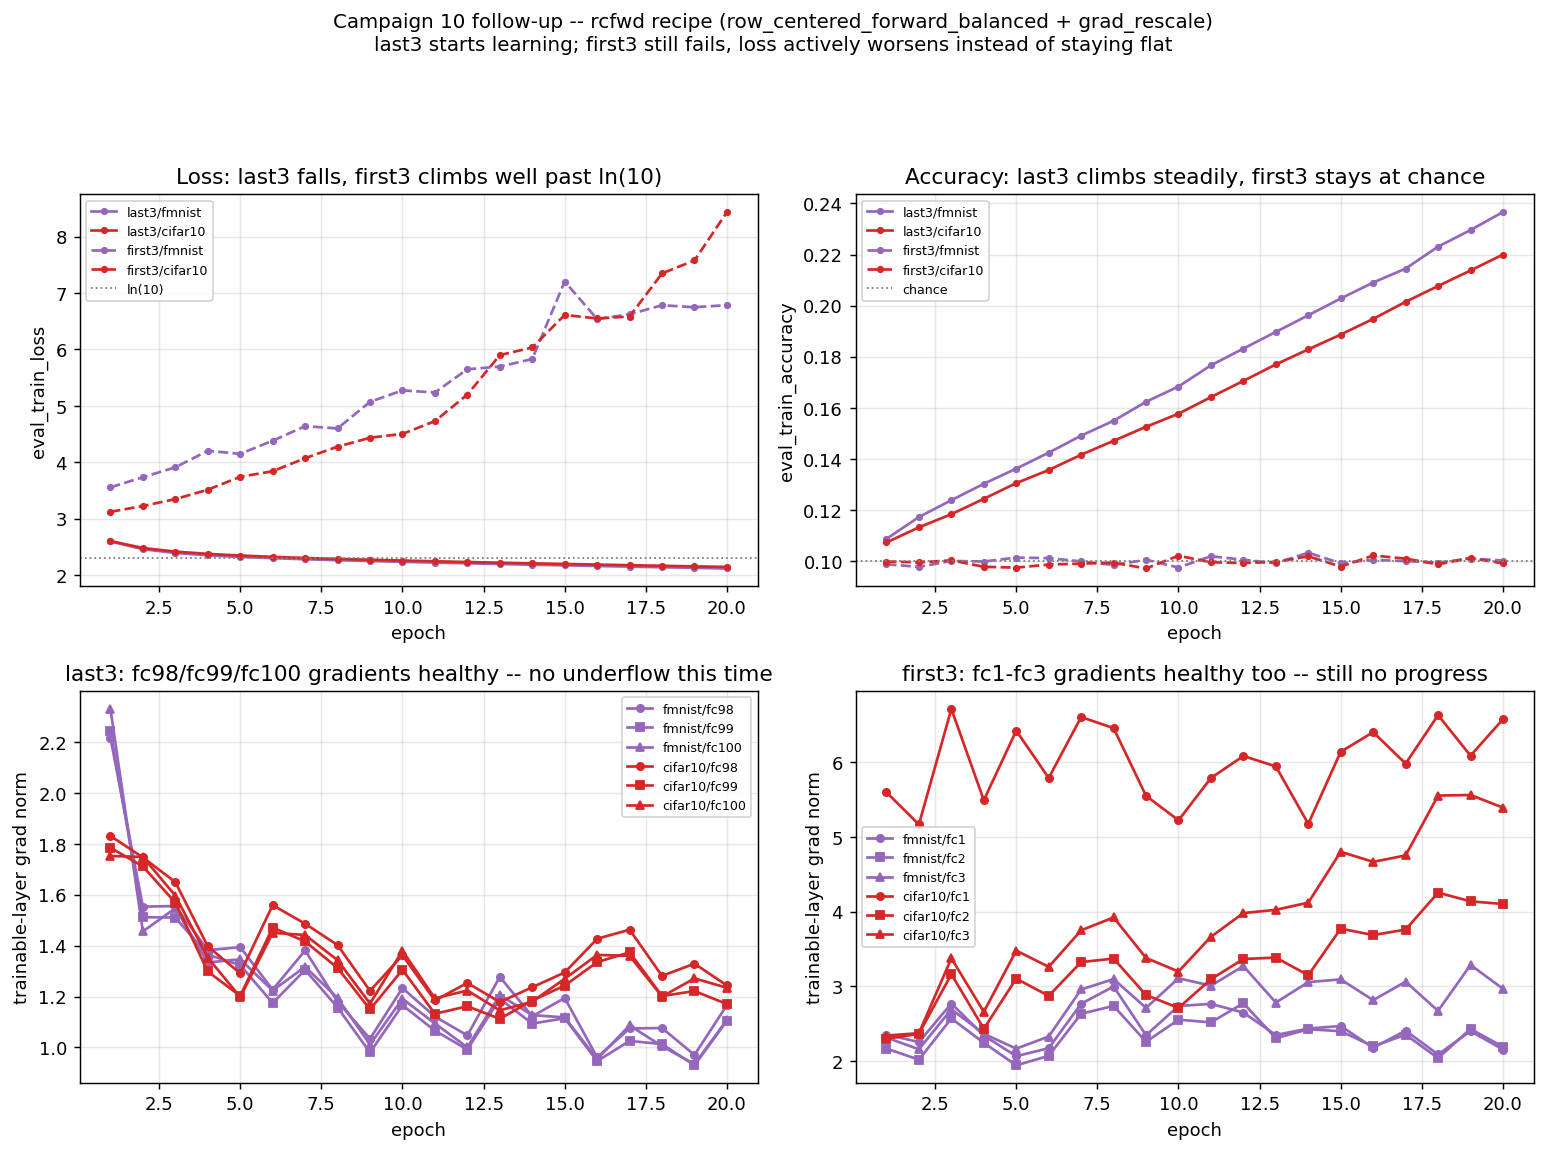
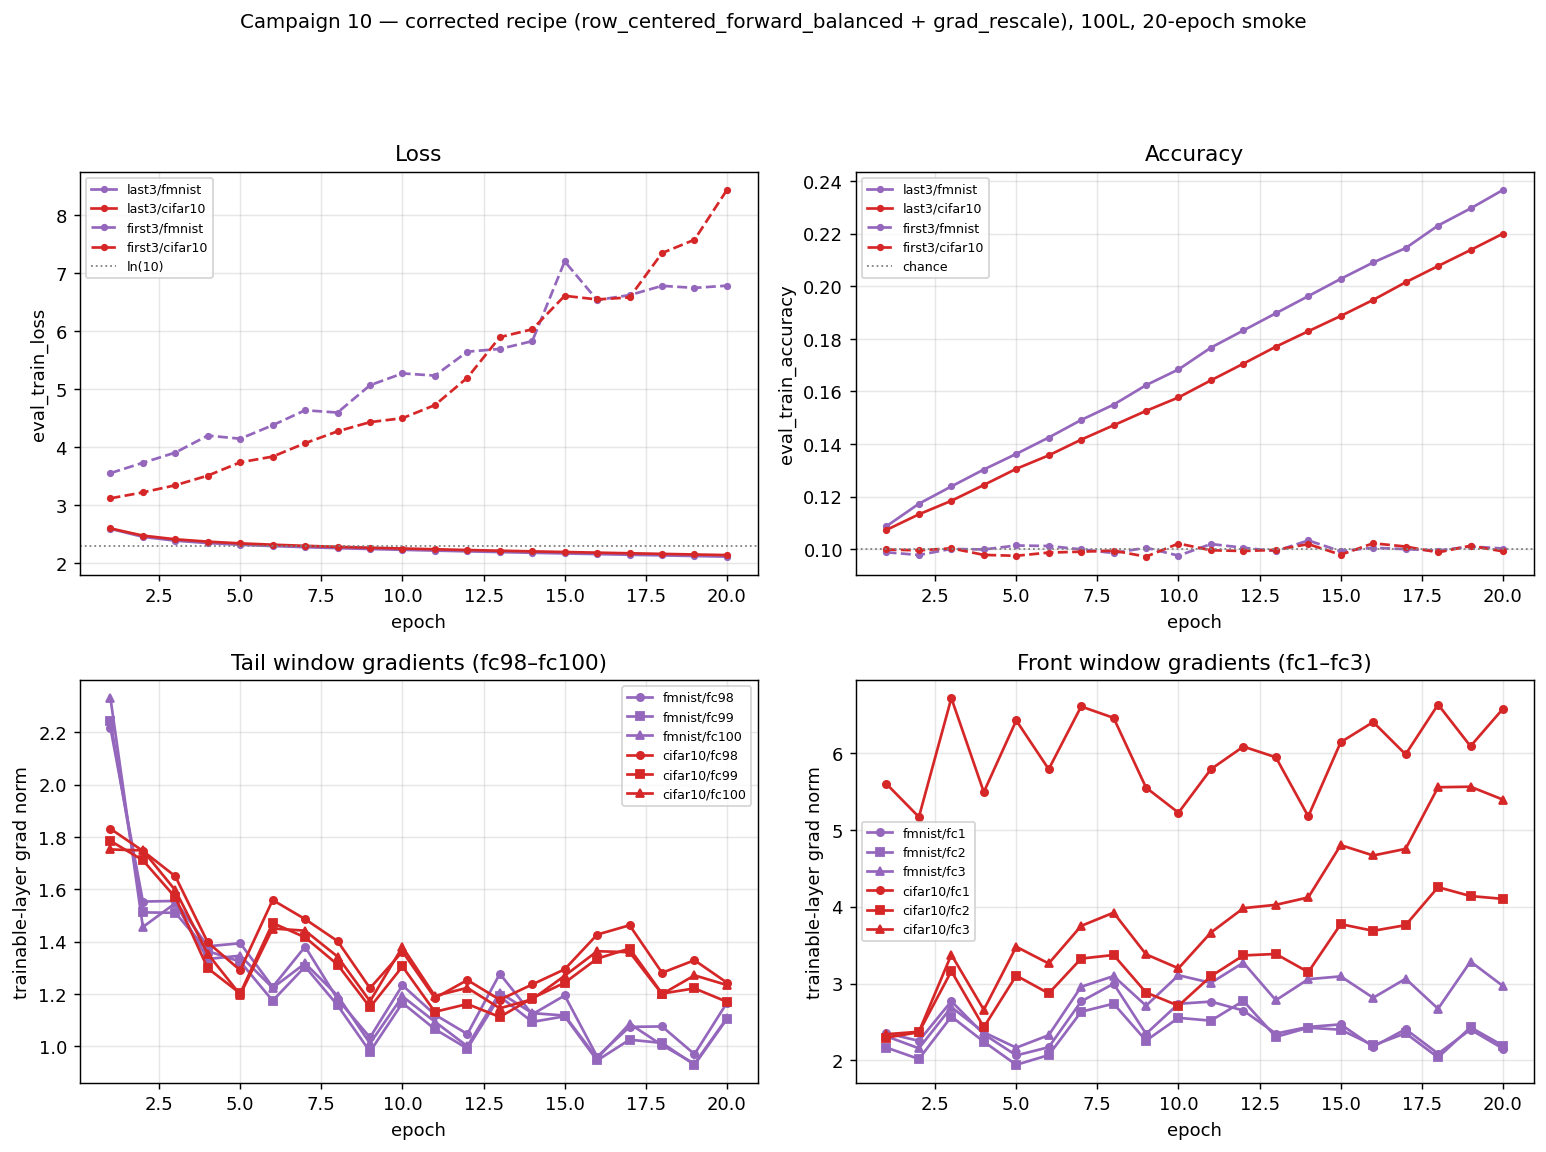
Neutralize rc-frozen-ends figure titles (move interpretation out of plots)

diff --git a/scripts/rc_frozen_ends_rcfwd_plots.py b/scripts/rc_frozen_ends_rcfwd_plots.py
@@ -61,12 +61,12 @@ for cond, ls in [("last3", "-"), ("first3", "--")]:
 
 ax_loss.axhline(2.302585, color="gray", ls=":", lw=1, label="ln(10)")
 ax_loss.set_xlabel("epoch"); ax_loss.set_ylabel("eval_train_loss")
-ax_loss.set_title("Loss: last3 falls, first3 climbs well past ln(10)")
+ax_loss.set_title("Loss")
 ax_loss.legend(fontsize=7); ax_loss.grid(alpha=0.3)
 
 ax_acc.axhline(0.10, color="gray", ls=":", lw=1, label="chance")
 ax_acc.set_xlabel("epoch"); ax_acc.set_ylabel("eval_train_accuracy")
-ax_acc.set_title("Accuracy: last3 climbs steadily, first3 stays at chance")
+ax_acc.set_title("Accuracy")
 ax_acc.legend(fontsize=7); ax_acc.grid(alpha=0.3)
 
 for ds, color in DATASETS.items():
@@ -78,7 +78,7 @@ for ds, color in DATASETS.items():
         ax_last3.plot(epochs, norms, marker=marker, ms=4, color=color,
                       label=f"{ds}/{name}")
 ax_last3.set_xlabel("epoch"); ax_last3.set_ylabel("trainable-layer grad norm")
-ax_last3.set_title("last3: fc98/fc99/fc100 gradients healthy -- no underflow this time")
+ax_last3.set_title("Tail window gradients (fc98–fc100)")
 ax_last3.legend(fontsize=7); ax_last3.grid(alpha=0.3)
 
 for ds, color in DATASETS.items():
@@ -90,13 +90,11 @@ for ds, color in DATASETS.items():
         ax_first3.plot(epochs, norms, marker=marker, ms=4, color=color,
                        label=f"{ds}/{name}")
 ax_first3.set_xlabel("epoch"); ax_first3.set_ylabel("trainable-layer grad norm")
-ax_first3.set_title("first3: fc1-fc3 gradients healthy too -- still no progress")
+ax_first3.set_title("Front window gradients (fc1–fc3)")
 ax_first3.legend(fontsize=7); ax_first3.grid(alpha=0.3)
 
-fig.suptitle("Campaign 10 follow-up -- rcfwd recipe (row_centered_forward_balanced "
-             "+ grad_rescale)\nlast3 starts learning; first3 still fails, "
-             "loss actively worsens instead of staying flat",
-             fontsize=11)
+fig.suptitle("Campaign 10 — corrected recipe (row_centered_forward_balanced + grad_rescale), "
+             "100L, 20-epoch smoke", fontsize=11)
 fig.tight_layout(rect=[0, 0, 1, 0.92])
 
 out1 = FIG_DIR / "rcfrozen_rcfwd_mechanisms.png"
@@ -109,8 +107,8 @@ print(f"saved {out1.relative_to(ROOT)}")
 # ---------------------------------------------------------------------------
 fig2, (ax_l3, ax_f3) = plt.subplots(1, 2, figsize=(12, 5), sharey=True)
 
-for ax, cond, title in [(ax_l3, "last3", "last3: fc98, fc99, fc100 trainable (head frozen)"),
-                        (ax_f3, "first3", "first3: fc1, fc2, fc3 trainable (head frozen)")]:
+for ax, cond, title in [(ax_l3, "last3", "Tail window (fc98–fc100)"),
+                        (ax_f3, "first3", "Front window (fc1–fc3)")]:
     for recipe, ls in [("raw", "--"), ("rcfwd", "-")]:
         for ds, color in DATASETS.items():
             hist = load(cond, ds, recipe)
@@ -123,11 +121,7 @@ for ax, cond, title in [(ax_l3, "last3", "last3: fc98, fc99, fc100 trainable (he
     ax.legend(fontsize=7); ax.grid(alpha=0.3)
 ax_l3.set_ylabel("eval_train_accuracy")
 
-fig2.suptitle("Does correcting the recipe (row_centered_he -> forward_balanced+"
-              "grad_rescale) unlock training?\nlast3: yes, slowly (H1-consistent -- "
-              "the raw recipe's forward-scale collapse was the cause) | "
-              "first3: no (H2-consistent -- content, not gradient conditioning, "
-              "is the bottleneck)", fontsize=10)
+fig2.suptitle("Campaign 10 — training accuracy, raw init vs corrected recipe", fontsize=11)
 fig2.tight_layout(rect=[0, 0, 1, 0.88])
 
 out2 = FIG_DIR / "rcfrozen_recipe_comparison.png"

diff --git a/scripts/rc_frozen_ends_plots.py b/scripts/rc_frozen_ends_plots.py
@@ -56,12 +56,12 @@ for cond, ls in [("last3", "-"), ("first3", "--")]:
 ax_loss.axhline(2.302585, color="gray", ls=":", lw=1, label="ln(10)")
 ax_loss.set_ylim(2.302, 2.304)
 ax_loss.set_xlabel("epoch"); ax_loss.set_ylabel("eval_train_loss (rounded, 6dp)")
-ax_loss.set_title("Loss: bit-exact flat at ln(10) in all 4 cells")
+ax_loss.set_title("Loss")
 ax_loss.legend(fontsize=7); ax_loss.grid(alpha=0.3)
 
 ax_acc.axhline(0.10, color="gray", ls=":", lw=1, label="chance")
 ax_acc.set_xlabel("epoch"); ax_acc.set_ylabel("eval_train_accuracy")
-ax_acc.set_title("Accuracy: pinned at chance (10 classes)")
+ax_acc.set_title("Accuracy")
 ax_acc.legend(fontsize=7); ax_acc.grid(alpha=0.3)
 
 for ds, color in DATASETS.items():
@@ -74,7 +74,7 @@ for ds, color in DATASETS.items():
                       label=f"{ds}/{name}")
 ax_last3.set_yscale("log"); ax_last3.set_xlabel("epoch")
 ax_last3.set_ylabel("trainable-layer grad norm (floored at 1e-12)")
-ax_last3.set_title("last3: fc98/fc99/fc100 gradients underflow to exact float32 zero")
+ax_last3.set_title("Tail window gradients (fc98–fc100)")
 ax_last3.legend(fontsize=7); ax_last3.grid(alpha=0.3, which="both")
 
 for ds, color in DATASETS.items():
@@ -87,11 +87,10 @@ for ds, color in DATASETS.items():
                        label=f"{ds}/{name}")
 ax_first3.set_yscale("log"); ax_first3.set_xlabel("epoch")
 ax_first3.set_ylabel("trainable-layer grad norm")
-ax_first3.set_title("first3: fc1-fc3 gradients stay healthy, never vanish")
+ax_first3.set_title("Front window gradients (fc1–fc3)")
 ax_first3.legend(fontsize=7); ax_first3.grid(alpha=0.3, which="both")
 
-fig.suptitle("Campaign 10 -- rc frozen ends: two failure modes, one dead network\n"
-             "100L row_centered_he, NoBN, plain SGD lr=1e-2, seed 42, 20-epoch smoke",
+fig.suptitle("Campaign 10 — plain init (row_centered_he), 100L, 20-epoch smoke",
              fontsize=11)
 fig.tight_layout(rect=[0, 0, 1, 0.94])
 
